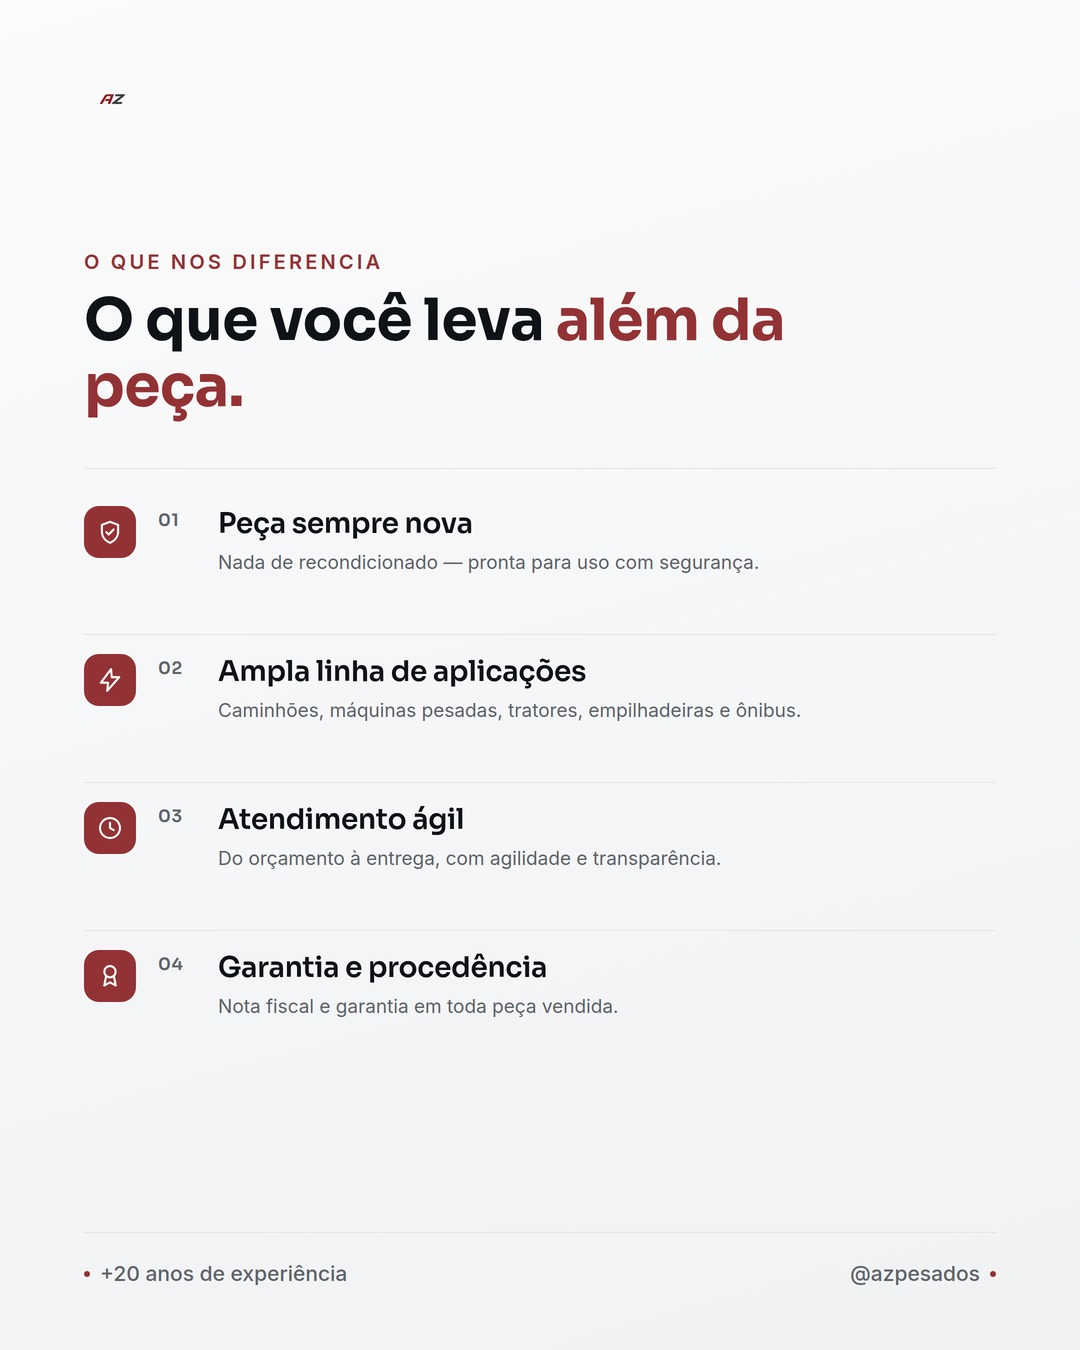
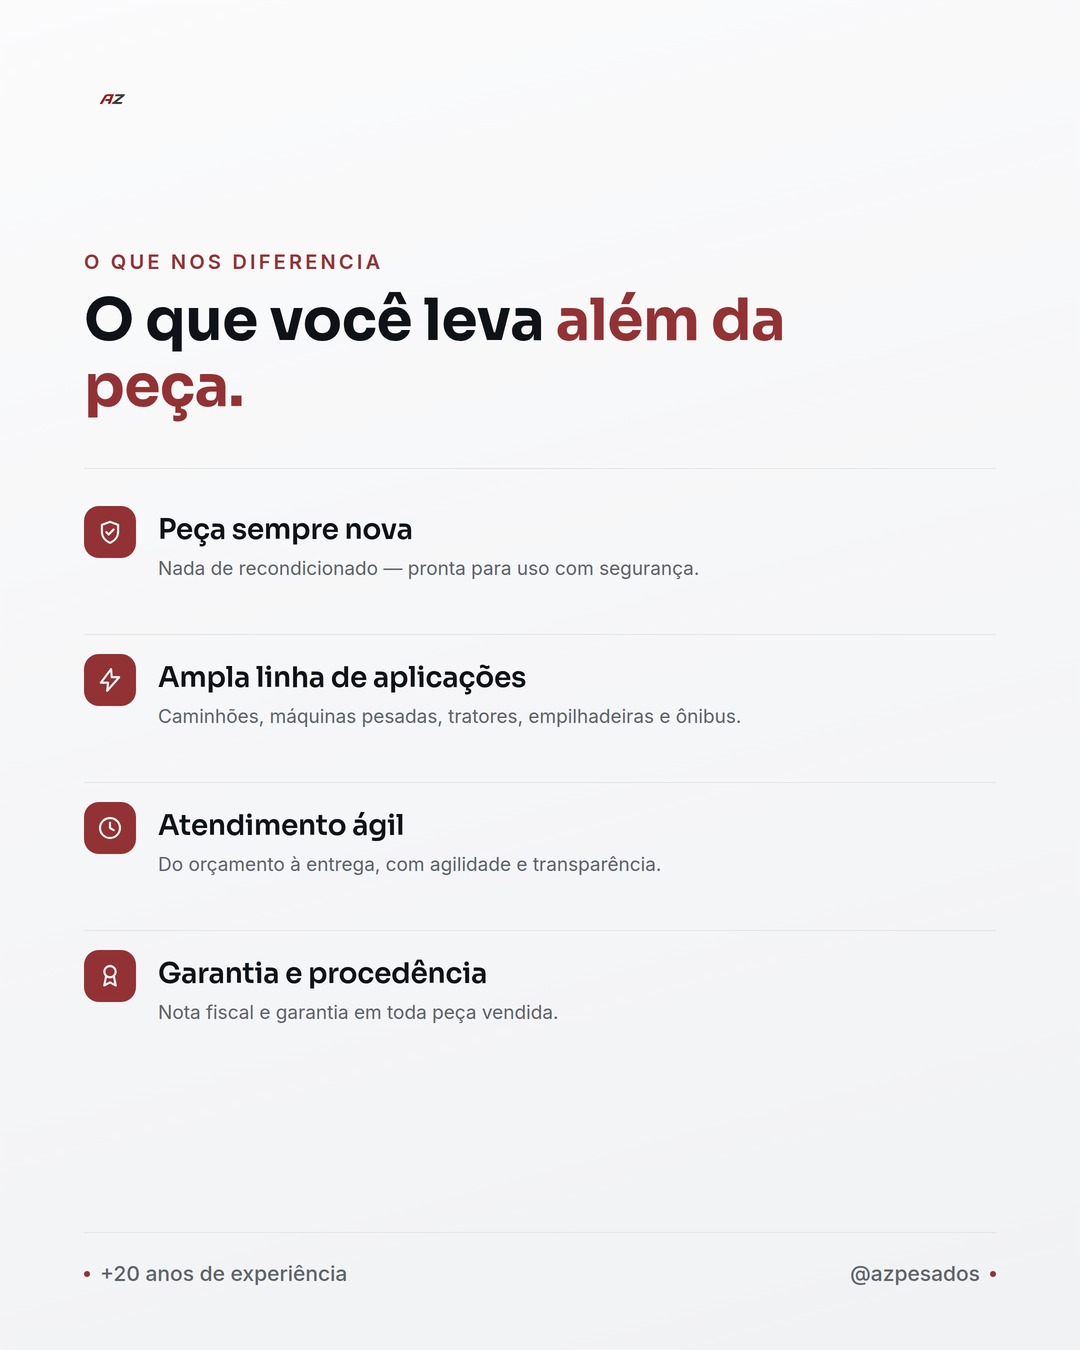
Remove numeração da lista de diferenciais
Claude-Session: https://claude.ai/code/session_01P4dFtbpr6ATd4oYWuebosk

diff --git a/posts/fixados/02-diferenciais.md b/posts/fixados/02-diferenciais.md
@@ -7,7 +7,7 @@
 
 ![Post Nossos Diferenciais](imagens/02-diferenciais.jpg)
 
-Versão single-image com os 4 principais diferenciais em lista numerada com regras finas (não é o grid de cards do site), fundo claro liso — mesma paleta clara/vermelho vinho. Título e números usam a fonte Sora (os outros dois posts fixados usam Space Grotesk). Ícones voltaram ao conceito original (escudo, raio, relógio, medalha), mas em badge vermelho preenchido em vez do contorno fino em círculo do site — mesma leitura de cada título, visual diferente do site.
+Versão single-image com os 4 principais diferenciais em lista numerada com regras finas (não é o grid de cards do site), fundo claro liso — mesma paleta clara/vermelho vinho. Título e números usam a fonte Sora (os outros dois posts fixados usam Space Grotesk). Ícones voltaram ao conceito original (escudo, raio, relógio, medalha), mas em badge vermelho preenchido em vez do contorno fino em círculo do site — mesma leitura de cada título, visual diferente do site. Numeração removida da lista.
 
 ## Legenda
 
